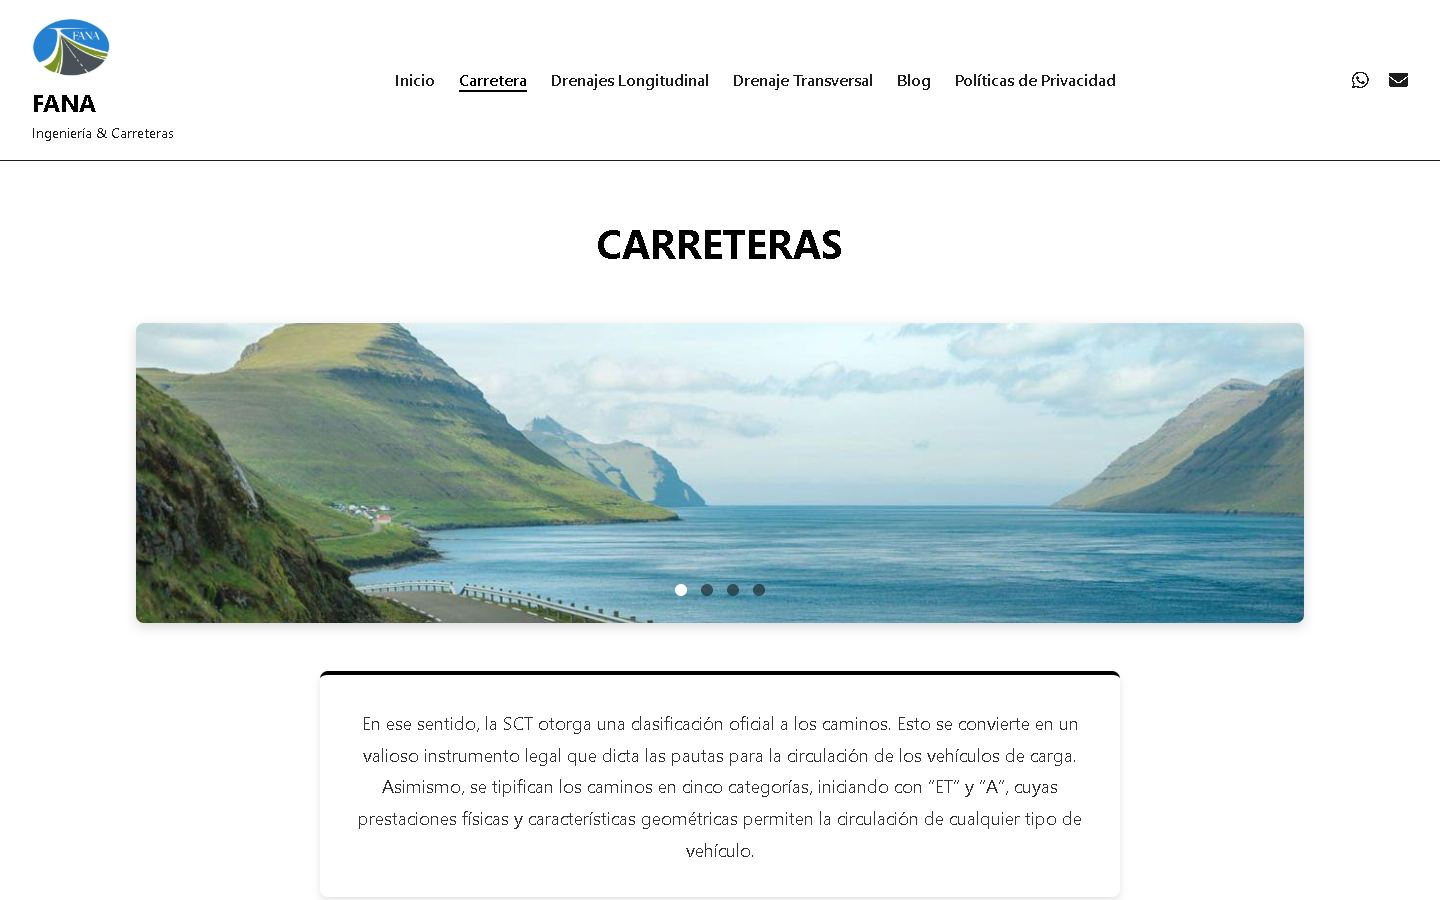
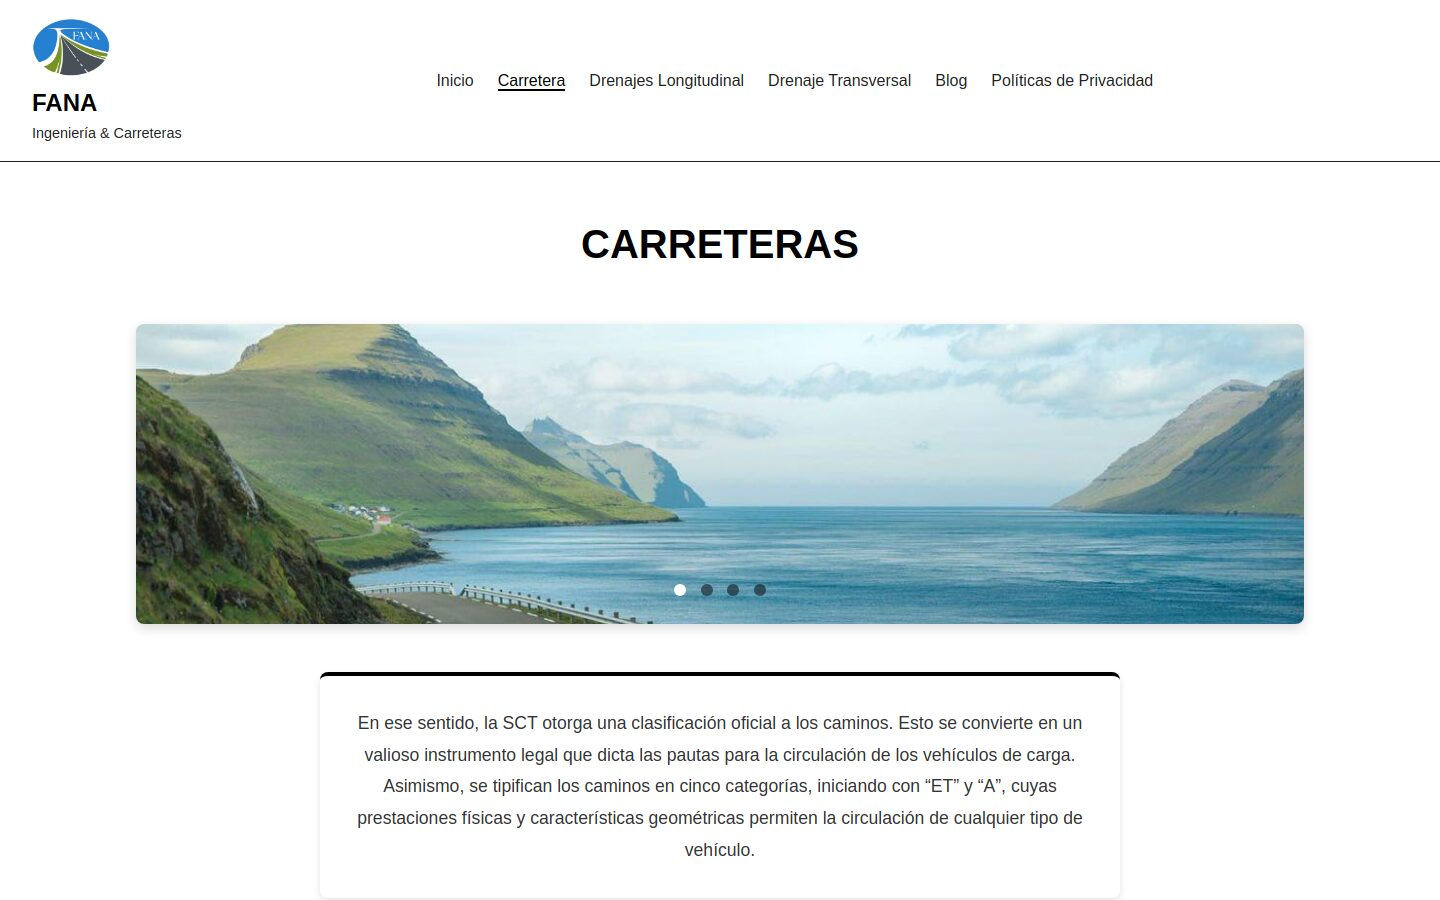
docs: README y capturas al día

diff --git a/README.md b/README.md
@@ -17,14 +17,14 @@
 
 Sitio estático para una empresa dedicada a la planeación, diseño y construcción de carreteras y drenajes. Explica sus servicios con contenido técnico e imágenes.
 
-> **La empresa ya no opera.** El código se publica con permiso; los datos de contacto se reemplazaron por ejemplos.
+> **La empresa ya no opera.** El sitio sigue en línea como muestra y ya no muestra datos de contacto. El código se publica con permiso.
 
 ## Funciones
 
 - **Secciones técnicas:** carreteras, drenaje longitudinal y drenaje transversal, con carruseles de imágenes.
 - **Carruseles hechos solo con CSS** (con botones de radio, sin librerías).
 - **Blog** de proyectos y **políticas de privacidad**.
-- Botones directos a WhatsApp y correo; diseño adaptable a celular.
+- Diseño adaptable a celular.
 - Sin frameworks: HTML, CSS y JavaScript puros, con estilos y lógica separados por página.
 
 ## Capturas
